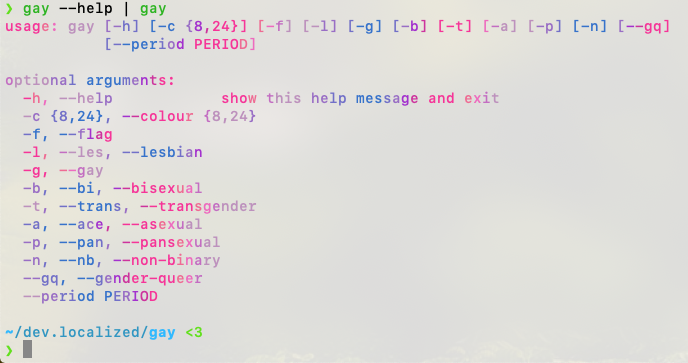
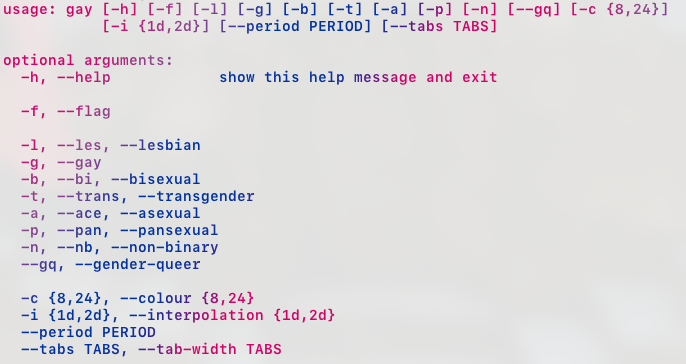
update pics

Changed region(s): [[0.0, 0.0, 0.9796, 1.0]]

diff --git a/README.md b/README.md
@@ -16,11 +16,23 @@ Gayer version of [`lolcat`](https://github.com/busyloop/lolcat)
 echo 'message' | gay
 ```
 
+```sh
+--help
+```
+
 ![help.png](https://raw.githubusercontent.com/ms-jpq/gay/%3C3/preview/help.png)
 
-![dog.png](https://raw.githubusercontent.com/ms-jpq/gay/%3C3/preview/dog.png)
+```sh
+-i 1d, --interpolation 1d
+```
 
-![anthem.png](https://raw.githubusercontent.com/ms-jpq/gay/%3C3/preview/anthem.png)
+![1d.png](https://raw.githubusercontent.com/ms-jpq/gay/%3C3/preview/1d.png)
+
+```sh
+-i 2d, --interpolation 2d
+```
+
+![2d.png](https://raw.githubusercontent.com/ms-jpq/gay/%3C3/preview/2d.png)
 
 ### Flag
 
@@ -31,7 +43,6 @@ gay --flag
 Unlike the demo, it shows 1 flag and 1 flag only.
 
 ![flags.gif](https://raw.githubusercontent.com/ms-jpq/gay/%3C3/preview/flags.gif)
-
 
 ## Thank yous
 
